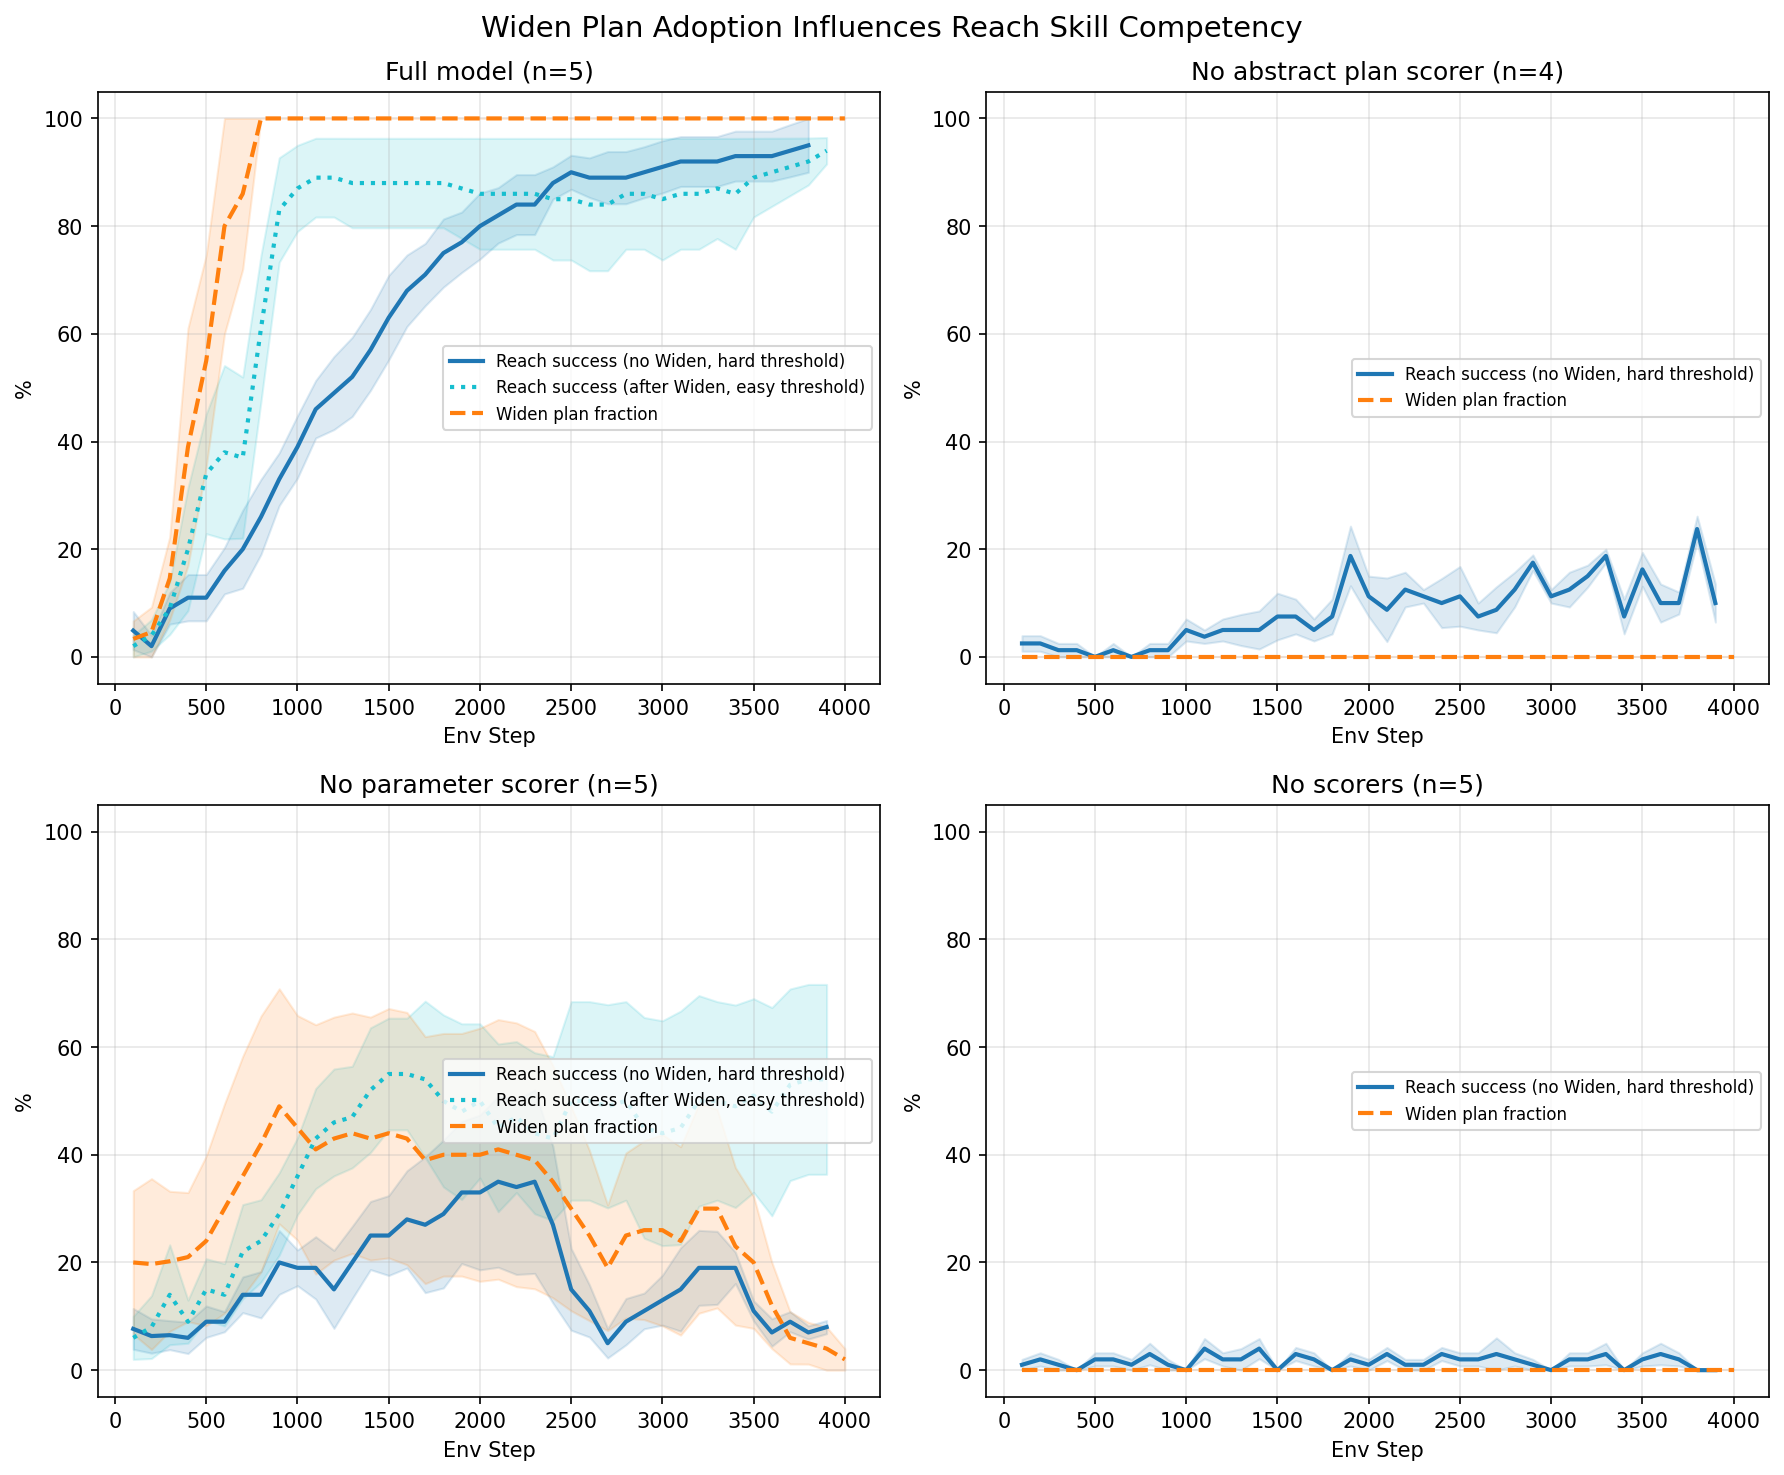
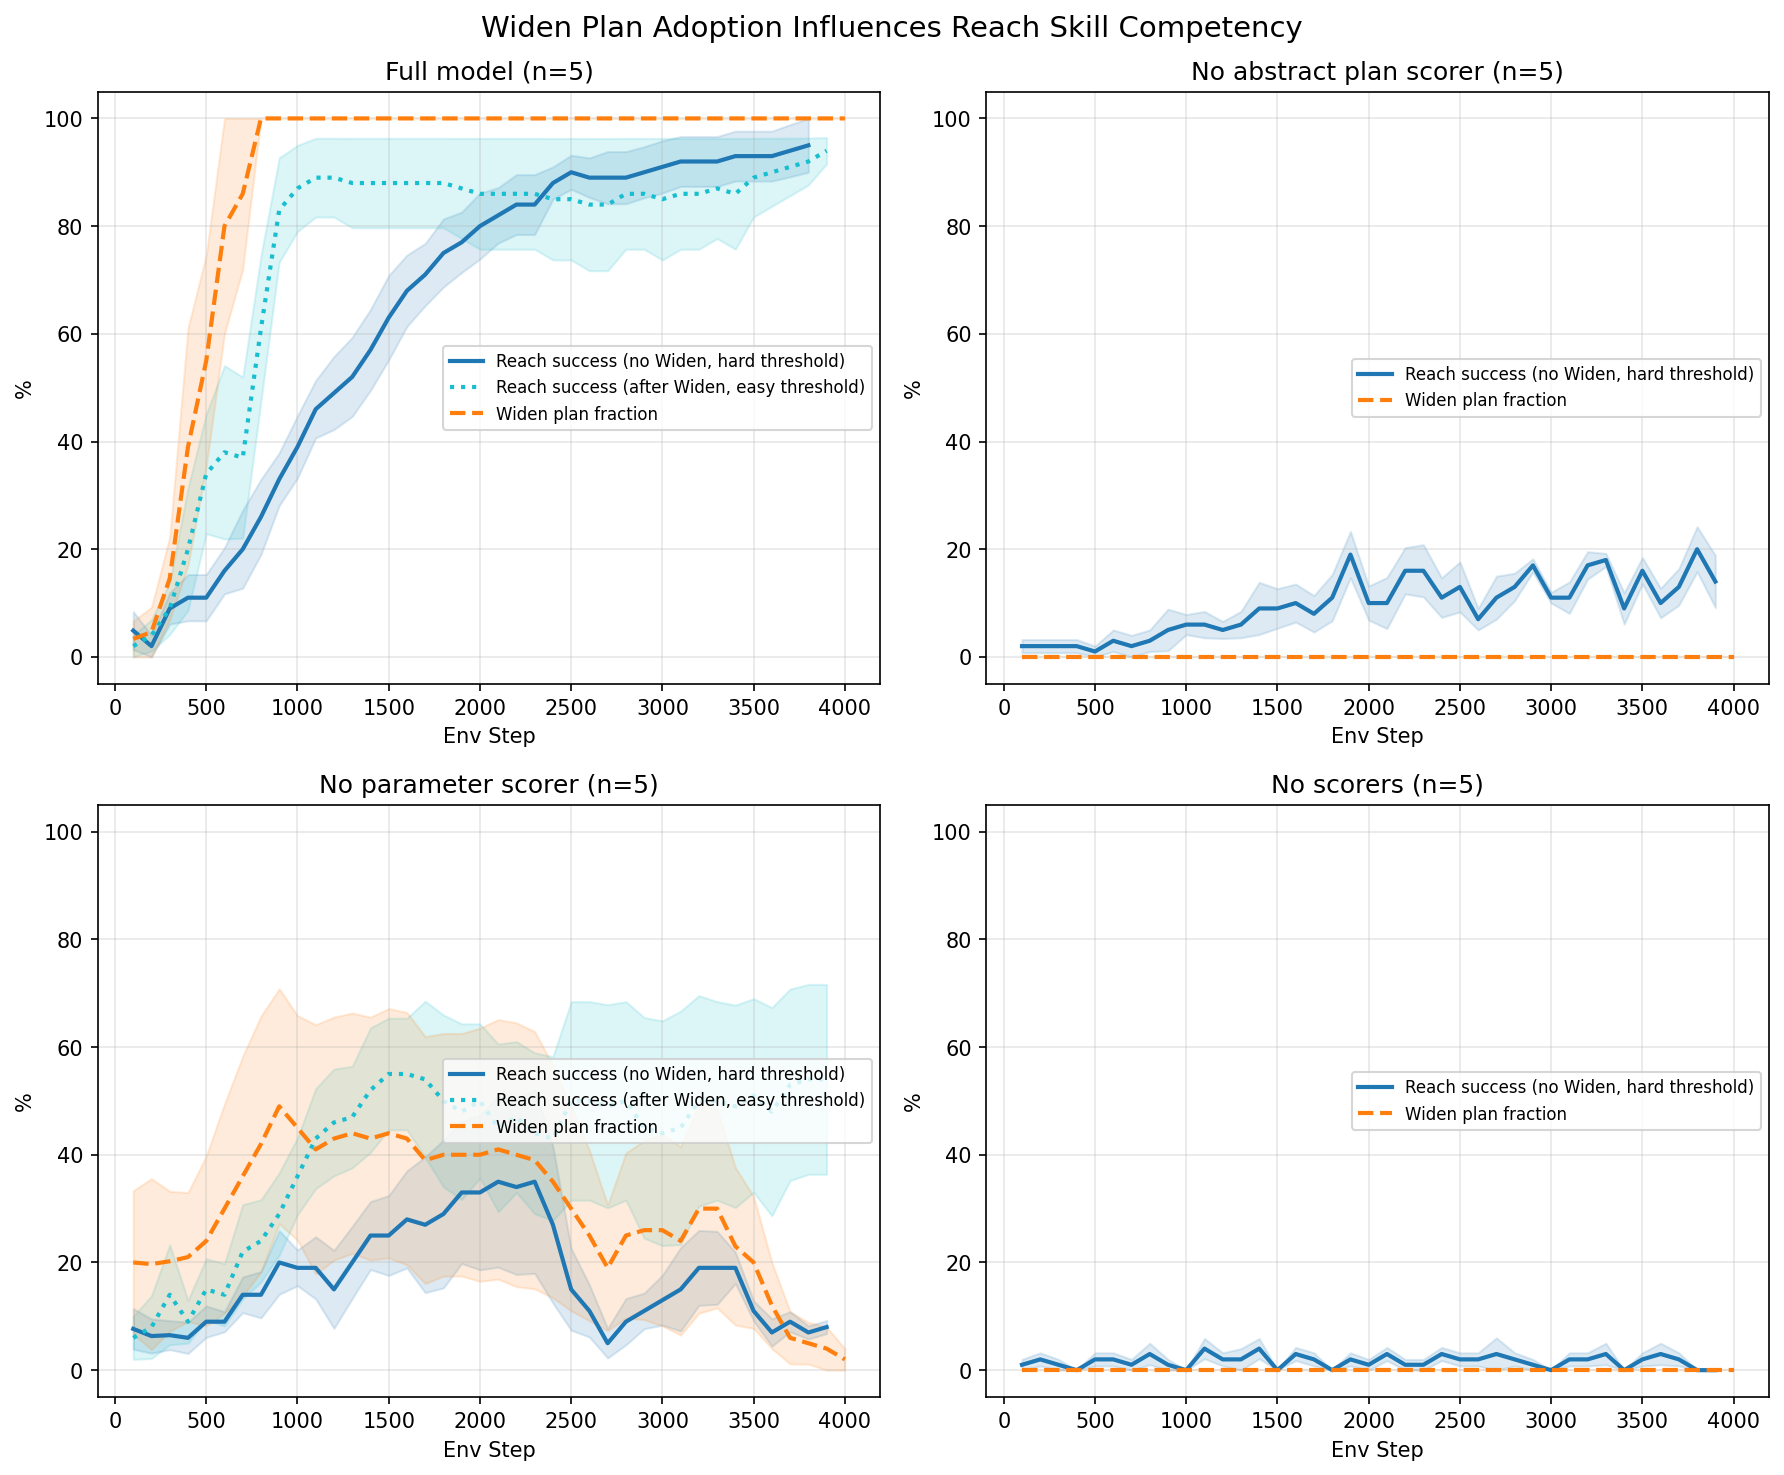
wip

Changed region(s): [[0.5858, 0.3431, 0.9865, 0.4678]]

diff --git a/experiments/plot_bandit_ablation.py b/experiments/plot_bandit_ablation.py
@@ -36,7 +36,9 @@ _TASK_LABELS = {
 _TASK_ID_RE = re.compile(r"bandit_ablation_(?:\d+_)+(\d+)\.out$")
 
 # Regex for data rows: "  100  25.00%  20.00%  15.00%  42  100  5"
-_ROW_RE = re.compile(r"^\s*(\d+)\s+([\d.]+)%\s+([\d.]+)%\s+([\d.]+)%")
+_ROW_RE = re.compile(
+    r"^\s*(\d+)\s+([\d.]+)%\s+([\d.]+)%\s+([\d.]+)%\s+(\d+)\s+(\d+)\s+(\d+)"
+)
 
 # Regex for total episodes: "  Total successes: 1249 / 1343 episodes"
 _EPISODES_RE = re.compile(r"Total successes:\s+\d+\s*/\s*(\d+)\s+episodes")
@@ -47,6 +49,7 @@ def parse_out_file(path: Path) -> dict:
     steps: list[int] = []
     success_rates: list[float] = []
     widen_rates: list[float] = []
+    exhaustions: list[int] = []
     total_episodes: int | None = None
 
     with open(path, encoding="utf-8") as f:
@@ -56,6 +59,7 @@ def parse_out_file(path: Path) -> dict:
                 steps.append(int(m.group(1)))
                 success_rates.append(float(m.group(3)) / 100.0)
                 widen_rates.append(float(m.group(4)) / 100.0)
+                exhaustions.append(int(m.group(7)))
             else:
                 m2 = _EPISODES_RE.search(line)
                 if m2:
@@ -65,6 +69,7 @@ def parse_out_file(path: Path) -> dict:
         "steps": steps,
         "success_rates": success_rates,
         "widen_rates": widen_rates,
+        "exhaustions": exhaustions,
         "total_episodes": total_episodes,
     }
 
@@ -91,8 +96,13 @@ def aggregate_runs(runs: list[dict]) -> dict:
     ]
     ep = np.array(episode_counts, dtype=float)
 
+    # Final exhaustion count (last value in each run)
+    final_exhaustions = [r["exhaustions"][-1] for r in runs if r["exhaustions"]]
+    ex = np.array(final_exhaustions, dtype=float)
+
     n = len(runs)
     n_ep = len(ep)
+    n_ex = len(ex)
     return {
         "steps": steps,
         "rates_mean": rates.mean(axis=0) * 100,
@@ -101,6 +111,8 @@ def aggregate_runs(runs: list[dict]) -> dict:
         "widens_stderr": widens.std(axis=0, ddof=1) / np.sqrt(n) * 100,
         "episodes_mean": ep.mean() if n_ep > 0 else float("nan"),
         "episodes_stderr": (ep.std(ddof=1) / np.sqrt(n_ep) if n_ep > 1 else 0.0),
+        "exhaustions_mean": ex.mean() if n_ex > 0 else float("nan"),
+        "exhaustions_stderr": (ex.std(ddof=1) / np.sqrt(n_ex) if n_ex > 1 else 0.0),
         "n": n,
     }
 
@@ -154,6 +166,8 @@ def main() -> None:
     bar_means: list[float] = []
     bar_stderrs: list[float] = []
     bar_colors: list = []
+    ex_means: list[float] = []
+    ex_stderrs: list[float] = []
 
     for task_id in sorted(groups):
         runs = groups[task_id]
@@ -186,6 +200,8 @@ def main() -> None:
         bar_means.append(agg["episodes_mean"])
         bar_stderrs.append(agg["episodes_stderr"])
         bar_colors.append(line.get_color())
+        ex_means.append(agg["exhaustions_mean"])
+        ex_stderrs.append(agg["exhaustions_stderr"])
 
     # --- Figure 1: Average overall success rate ---
     ax1.axhline(y=97, color="gray", linestyle="--", linewidth=1, label="Oracle (97%)")
@@ -220,14 +236,27 @@ def main() -> None:
     ax.grid(True, alpha=0.3, axis="y")
     fig2.tight_layout()
 
+    # --- Figure 3: Resample exhaustions ---
+    fig3, ax3 = plt.subplots(1, 1, figsize=(7, 5))
+    x = np.arange(len(bar_labels))
+    ax3.bar(x, ex_means, yerr=ex_stderrs, color=bar_colors, capsize=5, alpha=0.8)
+    ax3.set_xticks(x)
+    ax3.set_xticklabels(bar_labels, rotation=15, ha="right")
+    ax3.set_ylabel("Total resample exhaustions")
+    ax3.set_title("Resample exhaustions over 4000 steps (mean ± stderr)")
+    ax3.grid(True, alpha=0.3, axis="y")
+    fig3.tight_layout()
+
     if args.save:
         save_path = Path(args.save)
         stem, suffix = save_path.stem, save_path.suffix
         path1 = save_path.with_name(f"{stem}_success{suffix}")
         path2 = save_path.with_name(f"{stem}_widen_episodes{suffix}")
+        path3 = save_path.with_name(f"{stem}_exhaustions{suffix}")
         fig1.savefig(path1, dpi=150)
         fig2.savefig(path2, dpi=150)
-        print(f"Figures saved to: {path1}, {path2}")
+        fig3.savefig(path3, dpi=150)
+        print(f"Figures saved to: {path1}, {path2}, {path3}")
     else:
         plt.show()
 

diff --git a/experiments/kinder_env_test.py b/experiments/kinder_env_test.py
@@ -220,7 +220,7 @@ def main(
         "hidden_dim": 32,
         "num_layers": 2,
         "num_epochs": 200,
-        "num_ensemble_nets": 3,
+        "num_ensemble_nets": 10,
     }
 
     # Approach
@@ -479,15 +479,15 @@ if __name__ == "__main__":
         action="store_true",
         help="Run and produce result plots",
     )
-    parser.add_argument("--num-steps", type=int, default=50000)
+    parser.add_argument("--num-steps", type=int, default=60000)
     parser.add_argument("--max-resamples", type=int, default=20)
     parser.add_argument(
         "--reset-every",
         type=int,
-        default=300,
+        default=1000,
         help="Force-reset episode after this many steps (default: 300)",
     )
-    parser.add_argument("--log-every", type=int, default=500)
+    parser.add_argument("--log-every", type=int, default=2000)
     parser.add_argument("--seed", type=int, default=0)
     parser.add_argument(
         "--env",

diff --git a/src/alphatamp/approaches/simfree_param_policy_approach.py b/src/alphatamp/approaches/simfree_param_policy_approach.py
@@ -616,8 +616,8 @@ class SimFreeParamPolicyApproach(SimulatorFreeBaseApproach[_O, _X, _U]):
         plus random plans for diversity.
         """
         heuristic_plans = self.generate_candidate_plans()
-        random_plans = self.generate_random_candidate_plans()
-        return heuristic_plans + random_plans
+        #random_plans = self.generate_random_candidate_plans()
+        return heuristic_plans #+ random_plans
 
     def score_candidate_plans(self, candidate_plans: list[Skeleton]) -> Skeleton:
         """Given a list of candidate plans, score each plan based on the BALD objective
